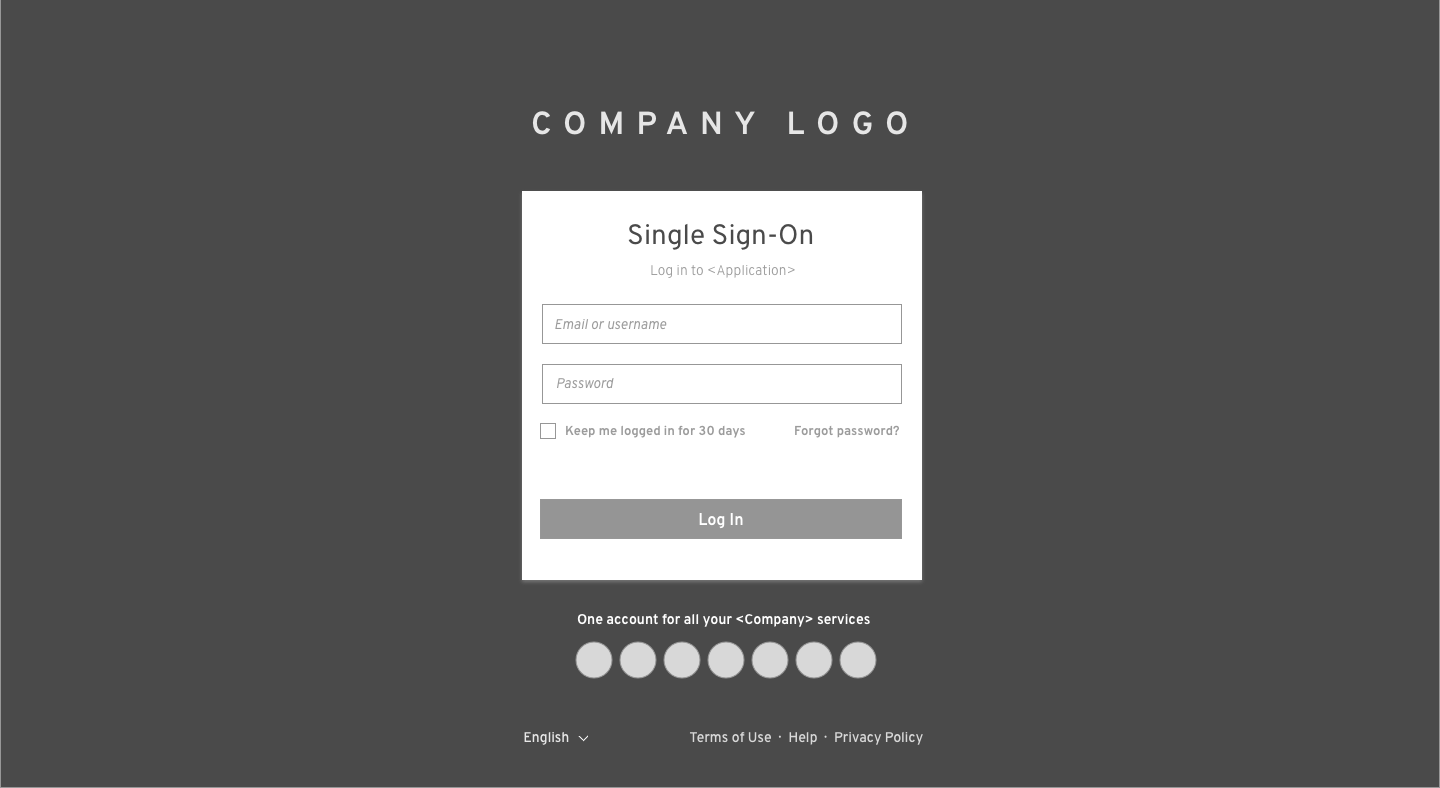
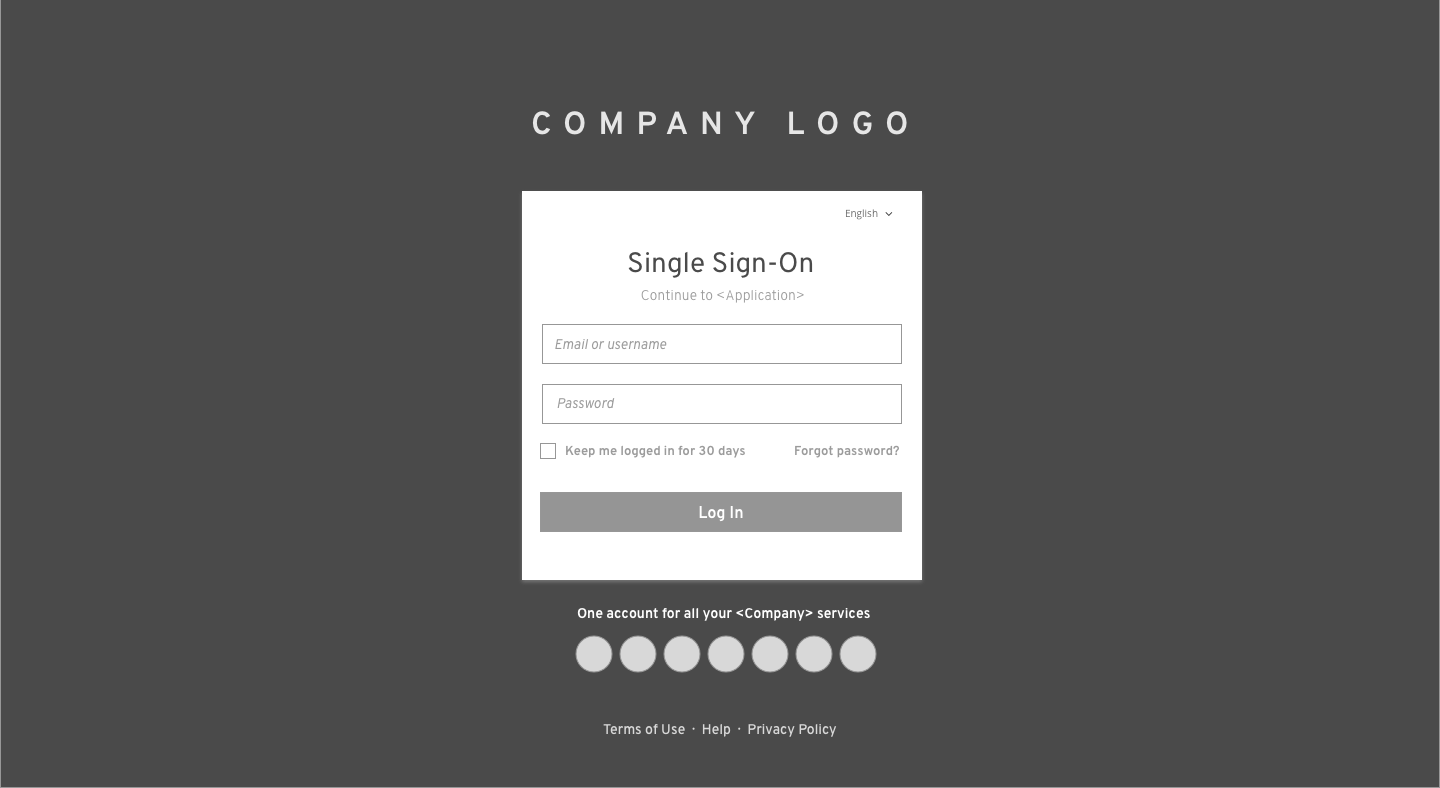
Updates to SSO

diff --git a/pattern-library/application-framework/single-sign-on/design/design.md b/pattern-library/application-framework/single-sign-on/design/design.md
@@ -1,7 +1,13 @@
 # Single Sign-On (SSO)
 
-![Image of single sign-on](img/SSO.png)
+![Image of single sign-on](img/SSO-2.png)
 1. **Logotype**: Company logo is located at the top.
 2. **Title**: The title is located at the top of the login card.
-3. **Description**: <Application> is the one user came from. This page will jump back to that application when finishing the login process.
+3. **Description**: "Application" is the one user came from. This page will jump back to that application when finishing the login process.
 4. **Supported Services**: All the supported services logo will be displayed at the bottom.
+
+## Identity First
+User can also be authenticated step by step when login with SSO. The login process are similar to [Multi-Factor Login](https://www.patternfly.org/pattern-library/application-framework/multi-factor-login/#).
+
+![Image of single sign-on](img/SSO-4.png)
+![Image of single sign-on](img/SSO-5.png)

diff --git a/pattern-library/application-framework/single-sign-on/design/overview.md b/pattern-library/application-framework/single-sign-on/design/overview.md
@@ -1,7 +1,7 @@
 # Single Sign-On (SSO)
 
-Jump to [Login Page](http://www.patternfly.org/pattern-library/application-framework/login-page/) or [Identity First Login](http://www.patternfly.org/pattern-library/application-framework/identity-first-login/)
-
-SSO (single sign-on) will allow a user to sign on once and access multiple applications within the same organization.
+SSO (single sign-on) will allow a user to sign on once and access multiple applications within the same organization. For additional login methods, see:
+- [Login Page](https://www.patternfly.org/pattern-library/application-framework/login-page/#)
+- [Multi-Factor Login](https://www.patternfly.org/pattern-library/application-framework/multi-factor-login/#)
 
 ![Image of sso login](img/SSO-1.png)
